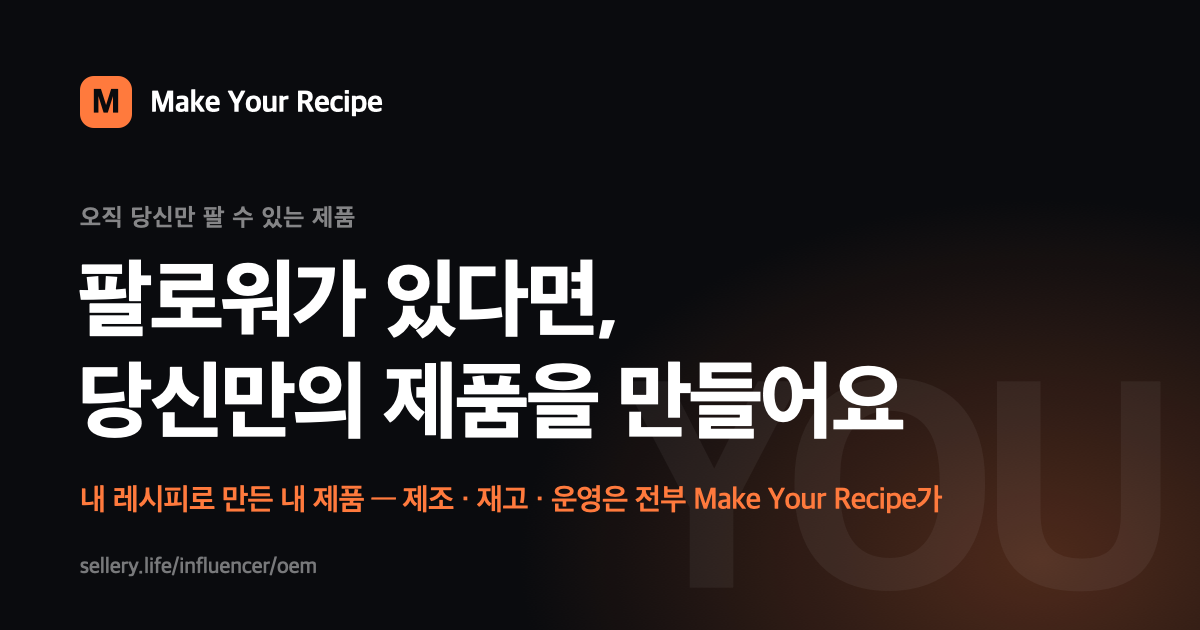
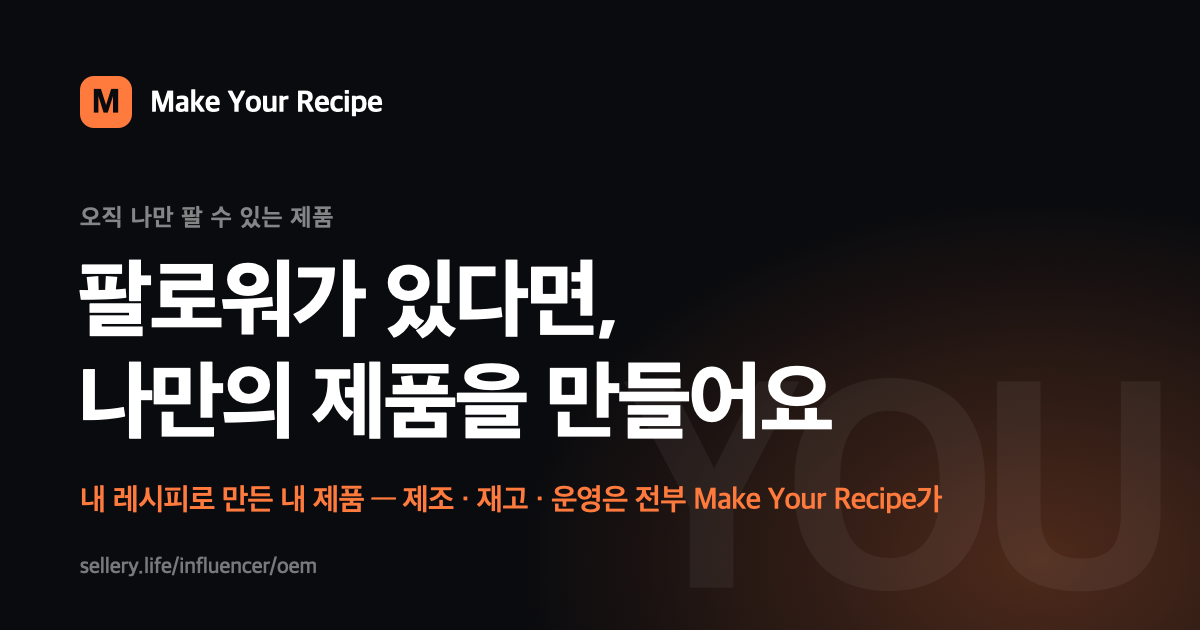
브랜딩 랜딩 말투: "당신" 대신 랜딩의 1인칭으로 — 강조 자리는 "나만의 · 나만 팔 수 있는", 설명 줄은 주어 생략("직접 골라요" "내 채널에서만 파는 샵") · 2장 "내 이름뿐이에요" · OG 이미지 동일

Changed region(s): [[0.0617, 0.573, 0.7708, 0.7238], [0.0925, 0.3016, 0.3083, 0.3619]]

diff --git a/apps/branding/src/lib/components/landing/StorySlide.svelte b/apps/branding/src/lib/components/landing/StorySlide.svelte
@@ -1,18 +1,18 @@
 <script lang="ts">
 	import { d, eyebrowCls, h2Cls, rightCol, rise, slideCls, twoCol } from './shared';
 
-	/** 5장 · 당신만의 제품이 되는 과정 — 스토리 3줄 + 서비스 칩. ("브랜드를 만들어 준다" 프레임은 2026-10-22 개발팀 요청으로 빼고 "당신이 정하는 당신만의 제품"으로) */
+	/** 5장 · 당신만의 제품이 되는 과정 — 스토리 3줄 + 서비스 칩. ("브랜드를 만들어 준다" 프레임은 2026-10-22 개발팀 요청으로 빼고 "내가 정하는 나만의 제품"으로 — 말투는 랜딩의 1인칭("내 샵" "내가 할 일")에 맞추고 설명 줄은 주어를 뺀다) */
 	let { active }: { active: boolean } = $props();
 
 	const STORY = [
-		{ n: '01', t: '나만의 레시피', d: '성분, 제형, 맛까지 당신이 직접 골라요.' },
-		{ n: '02', t: '패키지 · 라벨', d: '패키지와 라벨도 당신 스타일대로 함께 잡아요.' },
-		{ n: '03', t: '팔로워와의 연결', d: '당신만 팔 수 있는 샵, 첫 판매까지 같이 만들어요.' }
+		{ n: '01', t: '나만의 레시피', d: '성분, 제형, 맛까지 직접 골라요.' },
+		{ n: '02', t: '패키지 · 라벨', d: '패키지와 라벨도 내 스타일대로 함께 잡아요.' },
+		{ n: '03', t: '팔로워와의 연결', d: '내 채널에서만 파는 샵, 첫 판매까지 같이 만들어요.' }
 	];
 	const SERVICES = ['주문·결제 자동화', '포장·출고 대행', '투명한 정산 리포트'];
 </script>
 
-<section class={slideCls} aria-label="당신만의 제품이 되는 과정">
+<section class={slideCls} aria-label="나만의 제품이 되는 과정">
 	<div aria-hidden="true" class="pointer-events-none absolute inset-0 overflow-hidden">
 		<div
 			class="absolute bottom-[120px] -left-[60px] size-[300px] rounded-full bg-[radial-gradient(closest-side,rgba(255,122,61,0.22),transparent)] lg:top-1/2 lg:bottom-auto lg:-left-[120px] lg:size-[760px] lg:-translate-y-[55%]"
@@ -20,8 +20,8 @@
 	</div>
 	<div class={twoCol}>
 		<div class="relative">
-			<p class="{eyebrowCls} {rise(active)}" style={d(0)}>당신만의 제품이 되는 과정</p>
-			<h2 class="{h2Cls} {rise(active)}" style={d(1)}>레시피부터 패키지까지,<br />전부 당신이 정해요</h2>
+			<p class="{eyebrowCls} {rise(active)}" style={d(0)}>나만의 제품이 되는 과정</p>
+			<h2 class="{h2Cls} {rise(active)}" style={d(1)}>레시피부터 패키지까지,<br />전부 내가 정해요</h2>
 		</div>
 		<div class="{rightCol} mt-6 short:mt-4">
 			<div class="flex flex-col">

diff --git a/apps/branding/src/lib/components/landing/FinalSlide.svelte b/apps/branding/src/lib/components/landing/FinalSlide.svelte
@@ -1,7 +1,7 @@
 <script lang="ts">
 	import { d, rise, slideCls, twoCol } from './shared';
 
-	/** 7장 · 마지막 — 통계 4칸 + "당신만의 제품, 주인공은 당신이에요". 카드가 떠오르며 숫자가 굴러 멈춘다. */
+	/** 7장 · 마지막 — 통계 4칸 + "나만의 제품, 주인공은 나예요". 카드가 떠오르며 숫자가 굴러 멈춘다. */
 	let { active }: { active: boolean } = $props();
 
 	// from → to 로 굴러간다. 4단계는 0 에서 올라가고, 0원 · 0건은 2장과 짝을 맞춰 예전 값에서 내려오고, 1:1 은 0:0 에서 맞춰진다
@@ -57,7 +57,7 @@
 	</div>
 	<div class="{twoCol} flex flex-col lg:grid">
 		<div class="relative order-2 lg:order-1">
-			<h2 class="text-[32px] leading-[1.22] font-extrabold tracking-[-0.035em] text-balance text-fg lg:text-5xl lg:leading-[1.15] {rise(active)}" style={d(0)}>당신만의 제품,<br />주인공은 당신이에요</h2>
+			<h2 class="text-[32px] leading-[1.22] font-extrabold tracking-[-0.035em] text-balance text-fg lg:text-5xl lg:leading-[1.15] {rise(active)}" style={d(0)}>나만의 제품,<br />주인공은 나예요</h2>
 			<p class="mt-3.5 text-[15px] leading-[1.65] text-pretty text-fg/70 lg:max-w-[520px] lg:text-lg {rise(active)}" style={d(1)}>제조의뢰를 남기면 전담 매니저가 사흘 안에 연락드려요. 상담은 무료이고, 아무 의무도 생기지 않아요.</p>
 		</div>
 		<!-- 통계 4칸 — 데스크톱은 카드를 키워 오른쪽 열을 채운다 -->

diff --git a/apps/branding/src/lib/components/landing/HeroSlide.svelte b/apps/branding/src/lib/components/landing/HeroSlide.svelte
@@ -28,8 +28,8 @@
 	</div>
 	<div class={twoCol}>
 		<div class="relative">
-			<p class="{eyebrowCls} tracking-[0.02em] {rise(active)}" style={d(0)}>오직 당신만 팔 수 있는 제품</p>
-			<h1 class="mt-3 text-[38px] leading-[1.2] font-extrabold tracking-[-0.035em] text-balance text-fg lg:text-6xl lg:leading-[1.12] {rise(active)}" style={d(1)}>팔로워가 있다면,<br />당신만의 제품을<br />만들 수 있어요</h1>
+			<p class="{eyebrowCls} tracking-[0.02em] {rise(active)}" style={d(0)}>오직 나만 팔 수 있는 제품</p>
+			<h1 class="mt-3 text-[38px] leading-[1.2] font-extrabold tracking-[-0.035em] text-balance text-fg lg:text-6xl lg:leading-[1.12] {rise(active)}" style={d(1)}>팔로워가 있다면,<br />나만의 제품을<br />만들 수 있어요</h1>
 			<p class="mt-[18px] text-[15px] leading-[1.65] text-pretty text-accent lg:max-w-[520px] lg:text-lg {rise(active)}" style={d(2)}>
 				다이어트, 이너뷰티 — 성분부터 맛까지 내가 고른 나만의 레시피. 만드는 일도, 쌓이는 재고도, 복잡한 행정도 전부 Make Your Recipe가 맡을게요.
 			</p>

diff --git a/apps/branding/src/lib/components/landing/ProcessSlide.svelte b/apps/branding/src/lib/components/landing/ProcessSlide.svelte
@@ -8,7 +8,7 @@
 		{ n: '01', t: '제조의뢰', stage: '지금 여기', d: '만들고 싶은 제품을 알려주세요. 폼 하나 작성이면 충분해요.' },
 		{ n: '02', t: '컨셉 · 샘플', stage: '전담 매니저와', d: '전담 매니저와 레시피를 다듬고, 샘플을 직접 받아 확인해요.' },
 		{ n: '03', t: '생산 · 입고', stage: '검증된 파트너가', d: '검증된 제조 파트너가 생산하고, Make Your Recipe 물류센터로 바로 입고돼요.' },
-		{ n: '04', t: '내 샵 오픈', stage: '판매 시작', d: '당신만 팔 수 있는 샵이 열려요. 링크 하나 공유하면 판매 시작이에요.' }
+		{ n: '04', t: '내 샵 오픈', stage: '판매 시작', d: '나만 팔 수 있는 내 샵이 열려요. 링크 하나 공유하면 판매 시작이에요.' }
 	];
 	let procSel = $state(0);
 	let procTouched = $state(false);

diff --git a/apps/branding/src/routes/+page.svelte b/apps/branding/src/routes/+page.svelte
@@ -6,8 +6,8 @@
 	/** 홈 = 랜딩(가로 슬라이드) + 제조의뢰 퍼널 한 화면. 폼 액션은 lib/server/apply-action.ts. */
 	let { form }: PageProps = $props();
 
-	const TITLE = `${BRAND_NAME} — 당신만 팔 수 있는 제품`;
-	const OG_DESCRIPTION = `팔로워가 있다면, 당신만의 제품을 만들 수 있어요. 제조·재고·운영은 전부 ${BRAND_NAME}가 할게요.`;
+	const TITLE = `${BRAND_NAME} — 나만 팔 수 있는 제품`;
+	const OG_DESCRIPTION = `팔로워가 있다면, 나만의 제품을 만들 수 있어요. 제조·재고·운영은 전부 ${BRAND_NAME}가 할게요.`;
 </script>
 
 <!-- canonical · og:url 은 공개 주소(sellery.life/influencer/oem) — 이 앱의 실제 호스트 sellery-branding.vercel.app 이 중복 주소로 색인되지 않게.

diff --git a/apps/branding/src/lib/components/landing/ZeroSlide.svelte b/apps/branding/src/lib/components/landing/ZeroSlide.svelte
@@ -56,7 +56,7 @@
 	<div class={twoCol}>
 		<div class="relative">
 			<p class="{eyebrowCls} tracking-[0.08em] {rise(active)}" style={d(0)}>START WITH ZERO</p>
-			<h2 class="{h2Cls} {rise(active)}" style={d(1)}>시작하는 데 필요한 건<br />당신의 이름뿐이에요</h2>
+			<h2 class="{h2Cls} {rise(active)}" style={d(1)}>시작하는 데 필요한 건<br />내 이름뿐이에요</h2>
 		</div>
 		<div class="{rightCol} {rise(active)}" style={d(2)}>
 			<div class="rounded-[22px] border border-white/[0.08] bg-white/[0.03] px-[18px] py-1 lg:ml-auto lg:max-w-[480px] lg:rounded-[26px] lg:px-[26px] lg:py-2">

diff --git a/docs/branding-plan.md b/docs/branding-plan.md
@@ -4,8 +4,8 @@
 
 **서비스 이름은 "Make Your Recipe"**(2026-10-22 개발팀 결정 — 화면·제목·og:site_name·슬랙 접수 태그·OG 이미지에서 "셀러리/셀러리 브랜딩" 대신 씀 · `lib/site.ts` `BRAND_NAME`). 저장소 폴더·Vercel 프로젝트·공개 주소(`sellery.life/influencer/oem`)는 그대로.
 
-인플루언서가 **당신만의 웰니스 제품**(다이어트·피부·건강)을 만들 수 있게 안내하고 **제조의뢰를 받는** 페이지.
-핵심 메시지(2026-10-22 개발팀 요청으로 "브랜드를 만들어 준다" 프레임을 빼고): **성분부터 맛까지 당신이 고른 레시피로, 당신만 팔 수 있는 제품** — 재고 부담 · 제조 비용 · 행정 리스크는 Make Your Recipe 가 부담하고, 인플루언서에게는 자기 샵을 열어준다. 화면의 "브랜드"는 전부 "제품/레시피"로 바꿨다(히어로 · 3~7장 · 퍼널 첫 질문 · 메모 placeholder · 완료 요약 제목 · 제목/설명/OG).
+인플루언서가 **나만의 웰니스 제품**(다이어트·피부·건강)을 만들 수 있게 안내하고 **제조의뢰를 받는** 페이지.
+핵심 메시지(2026-10-22 개발팀 요청으로 "브랜드를 만들어 준다" 프레임을 빼고): **성분부터 맛까지 내가 고른 레시피로, 나만 팔 수 있는 제품**(말투는 "당신" 대신 랜딩의 1인칭 "나/내" — 강조 자리는 "나만", 설명 줄은 주어 생략) — 재고 부담 · 제조 비용 · 행정 리스크는 Make Your Recipe 가 부담하고, 인플루언서에게는 자기 샵을 열어준다. 화면의 "브랜드"는 전부 "제품/레시피"로 바꿨다(히어로 · 3~7장 · 퍼널 첫 질문 · 메모 placeholder · 완료 요약 제목 · 제목/설명/OG).
 
 ## 1. 다른 앱과 다른 점 (중요)
 
@@ -55,7 +55,7 @@ apps/branding/
         ZeroSlide.svelte          2장 START WITH ZERO — 취소선 표
         BurdenSlide.svelte        3장 내가 할 일 / 셀러리가 할 일 — 칩이 건너가는 표 (desktop 판정 포함)
         ProcessSlide.svelte       4장 진행 과정 — 자동 재생 타이머 · 게이지(PROC_MS 2.2초 · 되감기 없이 01번부터)
-        StorySlide.svelte         5장 "당신만의 제품이 되는 과정" 3줄 + 서비스 칩
+        StorySlide.svelte         5장 "나만의 제품이 되는 과정" 3줄 + 서비스 칩
         CategorySlide.svelte      6장 카테고리 타일 4장 — 반짝임 · 탭하면 onpick(category)
         FinalSlide.svelte         7장 통계 4칸 + 마지막 헤드라인
       TileGroup.svelte            타일형 단일 선택 버튼 — grid(카테고리 2열→lg 4열) · grid-lg(제형 2→3열) · row(세부 종류 · 패키지: 가로 카드→lg 3열 세로 카드) · swatch(맛 3→6열)
@@ -91,7 +91,7 @@ Tailwind v4 라서 토큰이 곧 유틸리티가 됩니다 (`bg-accent` `text-fg
 
 ## 5. 제조의뢰 퍼널 (`/` · `/apply`)
 
-**화면 (2026-10-15 · Claude Design "Sellery Landing Funnel" mobile · PC 안을 그대로 구현 — 원본 디자인 파일은 저장소에 두지 않음)**: 화면 높이(`h-dvh`) 고정 컨테이너 안에서 단계가 바뀌는 **한 화면 한 질문 퍼널**이고, 첫 단계(intro)가 랜딩입니다. 1024px 미만(`lg` 미만)은 430px 모바일 컬럼(태블릿은 가운데 정렬), `lg` 부터는 데스크톱 레이아웃 — 랜딩은 1120px 두 열(왼쪽 글 · 오른쪽 카드/타일)에 하단 바가 [◀ 점 ▶ … 안내 · 280px CTA] 한 줄, 좌우 화살표 키로도 넘어가며, 퍼널은 360px 사이드 레일(질문 목록 · 고른 값 · 지난 질문 클릭으로 되돌아가기, 앞 질문은 잠금 · 완료 뒤엔 "완료" 표시 · 로고는 랜딩으로만 가고 답은 유지, 접수 완료 뒤에만 [홈으로]처럼 초기화 — 2026-10-22) + 본문 900px(카테고리 4열 · 제형 3열 · 세부/패키지 3열 카드 · 맛 6열 · 성분/연락처/완료는 두 열 · 버튼 오른쪽 정렬)입니다 — 가로로 넘기는 7장(히어로 "팔로워가 있다면, 당신만의 제품을 만들 수 있어요" → START WITH ZERO 취소선 표 → 부담은 Make Your Recipe가(짐이 그 칸으로 건너감) → 진행 과정 4단계 자동 재생 → "당신만의 제품이 되는 과정" 3줄(나만의 레시피 · 패키지/라벨 · 팔로워와의 연결) + 서비스 칩 → 제품 카테고리 타일 4장(2×2) → 통계 4칸 + "당신만의 제품, 주인공은 당신이에요") + 점 인디케이터 + [제조의뢰 시작하기] + "약 1분 · 전부 선택형 · 무료 상담".
+**화면 (2026-10-15 · Claude Design "Sellery Landing Funnel" mobile · PC 안을 그대로 구현 — 원본 디자인 파일은 저장소에 두지 않음)**: 화면 높이(`h-dvh`) 고정 컨테이너 안에서 단계가 바뀌는 **한 화면 한 질문 퍼널**이고, 첫 단계(intro)가 랜딩입니다. 1024px 미만(`lg` 미만)은 430px 모바일 컬럼(태블릿은 가운데 정렬), `lg` 부터는 데스크톱 레이아웃 — 랜딩은 1120px 두 열(왼쪽 글 · 오른쪽 카드/타일)에 하단 바가 [◀ 점 ▶ … 안내 · 280px CTA] 한 줄, 좌우 화살표 키로도 넘어가며, 퍼널은 360px 사이드 레일(질문 목록 · 고른 값 · 지난 질문 클릭으로 되돌아가기, 앞 질문은 잠금 · 완료 뒤엔 "완료" 표시 · 로고는 랜딩으로만 가고 답은 유지, 접수 완료 뒤에만 [홈으로]처럼 초기화 — 2026-10-22) + 본문 900px(카테고리 4열 · 제형 3열 · 세부/패키지 3열 카드 · 맛 6열 · 성분/연락처/완료는 두 열 · 버튼 오른쪽 정렬)입니다 — 가로로 넘기는 7장(히어로 "팔로워가 있다면, 나만의 제품을 만들 수 있어요" → START WITH ZERO 취소선 표 → 부담은 Make Your Recipe가(짐이 그 칸으로 건너감) → 진행 과정 4단계 자동 재생 → "나만의 제품이 되는 과정" 3줄(나만의 레시피 · 패키지/라벨 · 팔로워와의 연결) + 서비스 칩 → 제품 카테고리 타일 4장(2×2) → 통계 4칸 + "나만의 제품, 주인공은 나예요") + 점 인디케이터 + [제조의뢰 시작하기] + "약 1분 · 전부 선택형 · 무료 상담".
 
 질문 순서: 카테고리(다이어트/피부/건강/기타, 탭하면 0.28초 뒤 자동 다음) → 메인 성분(선택 · 카테고리별 자주 쓰는 성분 칩 + **"더 전달하고 싶은 내용" 메모를 여기서 같이 받음** · [다음]/[건너뛰기]) → 제형(알약/젤리/분말/액상/필름/캔디) → 세부 종류(**알약이면 타정/분말 캡슐/연질캡슐 · 캔디면 구미/카라멜** — 구미·카라멜은 더 이상 패키지가 아님) → 패키지(제형별 `PACKAGING_BY_FORM`, 캔디는 PTP/병 · 선택지가 하나뿐이면 자동 채움(젤리 → 스틱) · 필름은 없음) → 맛(포도/딸기/복숭아/레몬/플레인(무맛)/기타 — 분말 캡슐·연질캡슐이면 건너뜀) → 연락처(활동명 또는 채널 · 연락처 자동 하이픈 · **미팅 선호 시간대 오전/오후/저녁(선택)** · 동의 필수) → 접수 완료("접수됐어요" · "내가 만든 레시피" 요약 6줄(빈 항목 "미팅 때 결정", 해당 없음, 시간대 "상관없음") · 진행 3단계 타임라인 · [홈으로] = 답을 비우고 랜딩 첫 장으로). 제형·세부 종류·패키지·맛에는 "아직 모르겠어요 · 미팅 때 정할게요" 점선 버튼(저장값 `UNSURE = '미정'`). 상단 고정 헤더: 뒤로 가기 · 진행 세그먼트 · `n / 전체` · 고른 경로("다이어트 · 캔디 · 구미 · 병"). 카테고리·맛의 "기타" 직접 입력칸과 완료 후 8초 자동 홈 이동은 디자인에 없어 **삭제**했습니다. 아이콘은 직전 커밋에서 다듬은 모양(젤리 병 · 멀티팩 제품 · 앉은 곰 구미)을 유지했고, 랜딩 카테고리용 이너뷰티/멘탈/맨즈를 추가했습니다.
 
